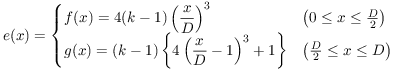
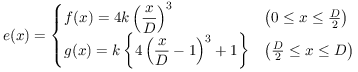
Revert k behavior

Changed region(s): [[0.0, 0.0278, 1.0, 0.9444], [0.7374, 0.1111, 0.9832, 0.3889], [0.8911, 0.7778, 0.9218, 0.8056]]

diff --git a/cubic_formula_int.tex b/cubic_formula_int.tex
@@ -10,10 +10,10 @@
 \begin{document}
 $
   \displaystyle \int_0^x e(x) dx = \begin{cases}
-    \displaystyle (k-1)\frac{x^4}{D^3} 
+    \displaystyle k\frac{x^4}{D^3} 
       & \left(0 \leq x \leq \frac{D}{2}\right)
     \\
-    \displaystyle (k-1)\left( \frac{x^4}{D^3} - \frac{4x^3}{D^2} + \frac{6x^2}{D} - 3x + \frac{D}{2} \right) 
+    \displaystyle k\left( \frac{x^4}{D^3} - \frac{4x^3}{D^2} + \frac{6x^2}{D} - 3x + \frac{D}{2} \right) 
       & \left(\frac{D}{2} \leq x \leq D\right)
   \end{cases}
 $

diff --git a/cubic_formula.tex b/cubic_formula.tex
@@ -10,10 +10,10 @@
 \begin{document}
 $
   e(x) = \begin{cases}
-    \displaystyle f(x) = 4(k-1)\left(\frac{x}{D}\right)^{3}
+    \displaystyle f(x) = 4k\left(\frac{x}{D}\right)^{3}
       & \left(0 \leq x \leq \frac{D}{2}\right)
     \\
-    \displaystyle g(x) = (k-1)\left\{4\left(\frac{x}{D} - 1\right)^{3} + 1\right\}
+    \displaystyle g(x) = k\left\{4\left(\frac{x}{D} - 1\right)^{3} + 1\right\}
       & \left(\frac{D}{2} \leq x \leq D\right)
   \end{cases}
 $
